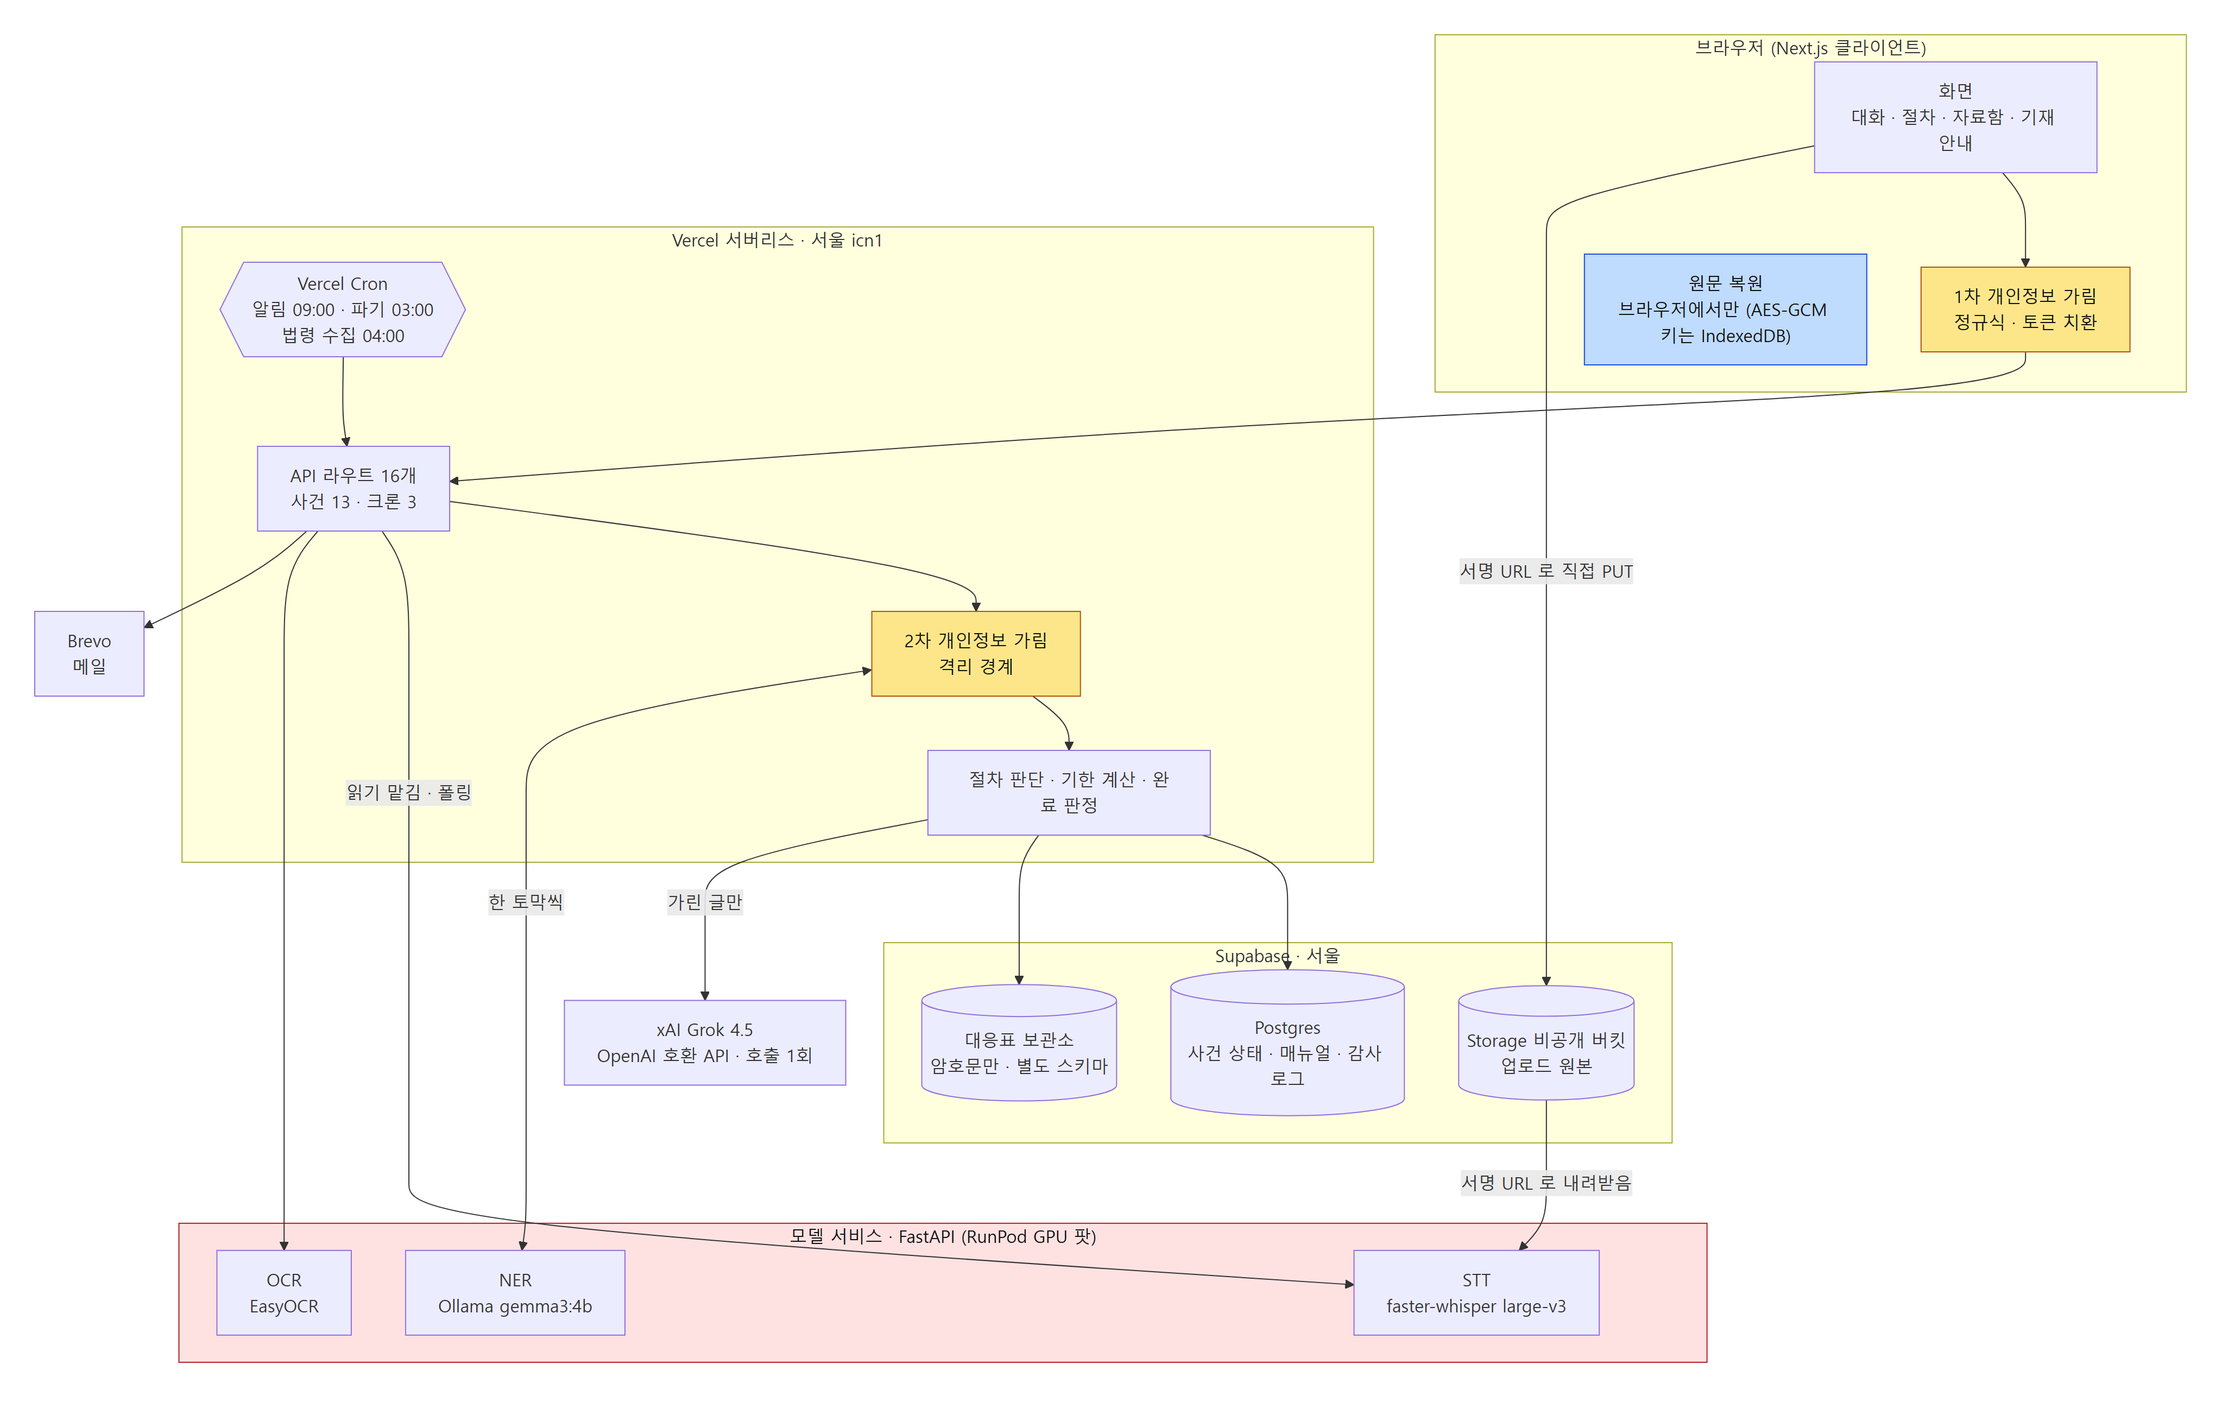
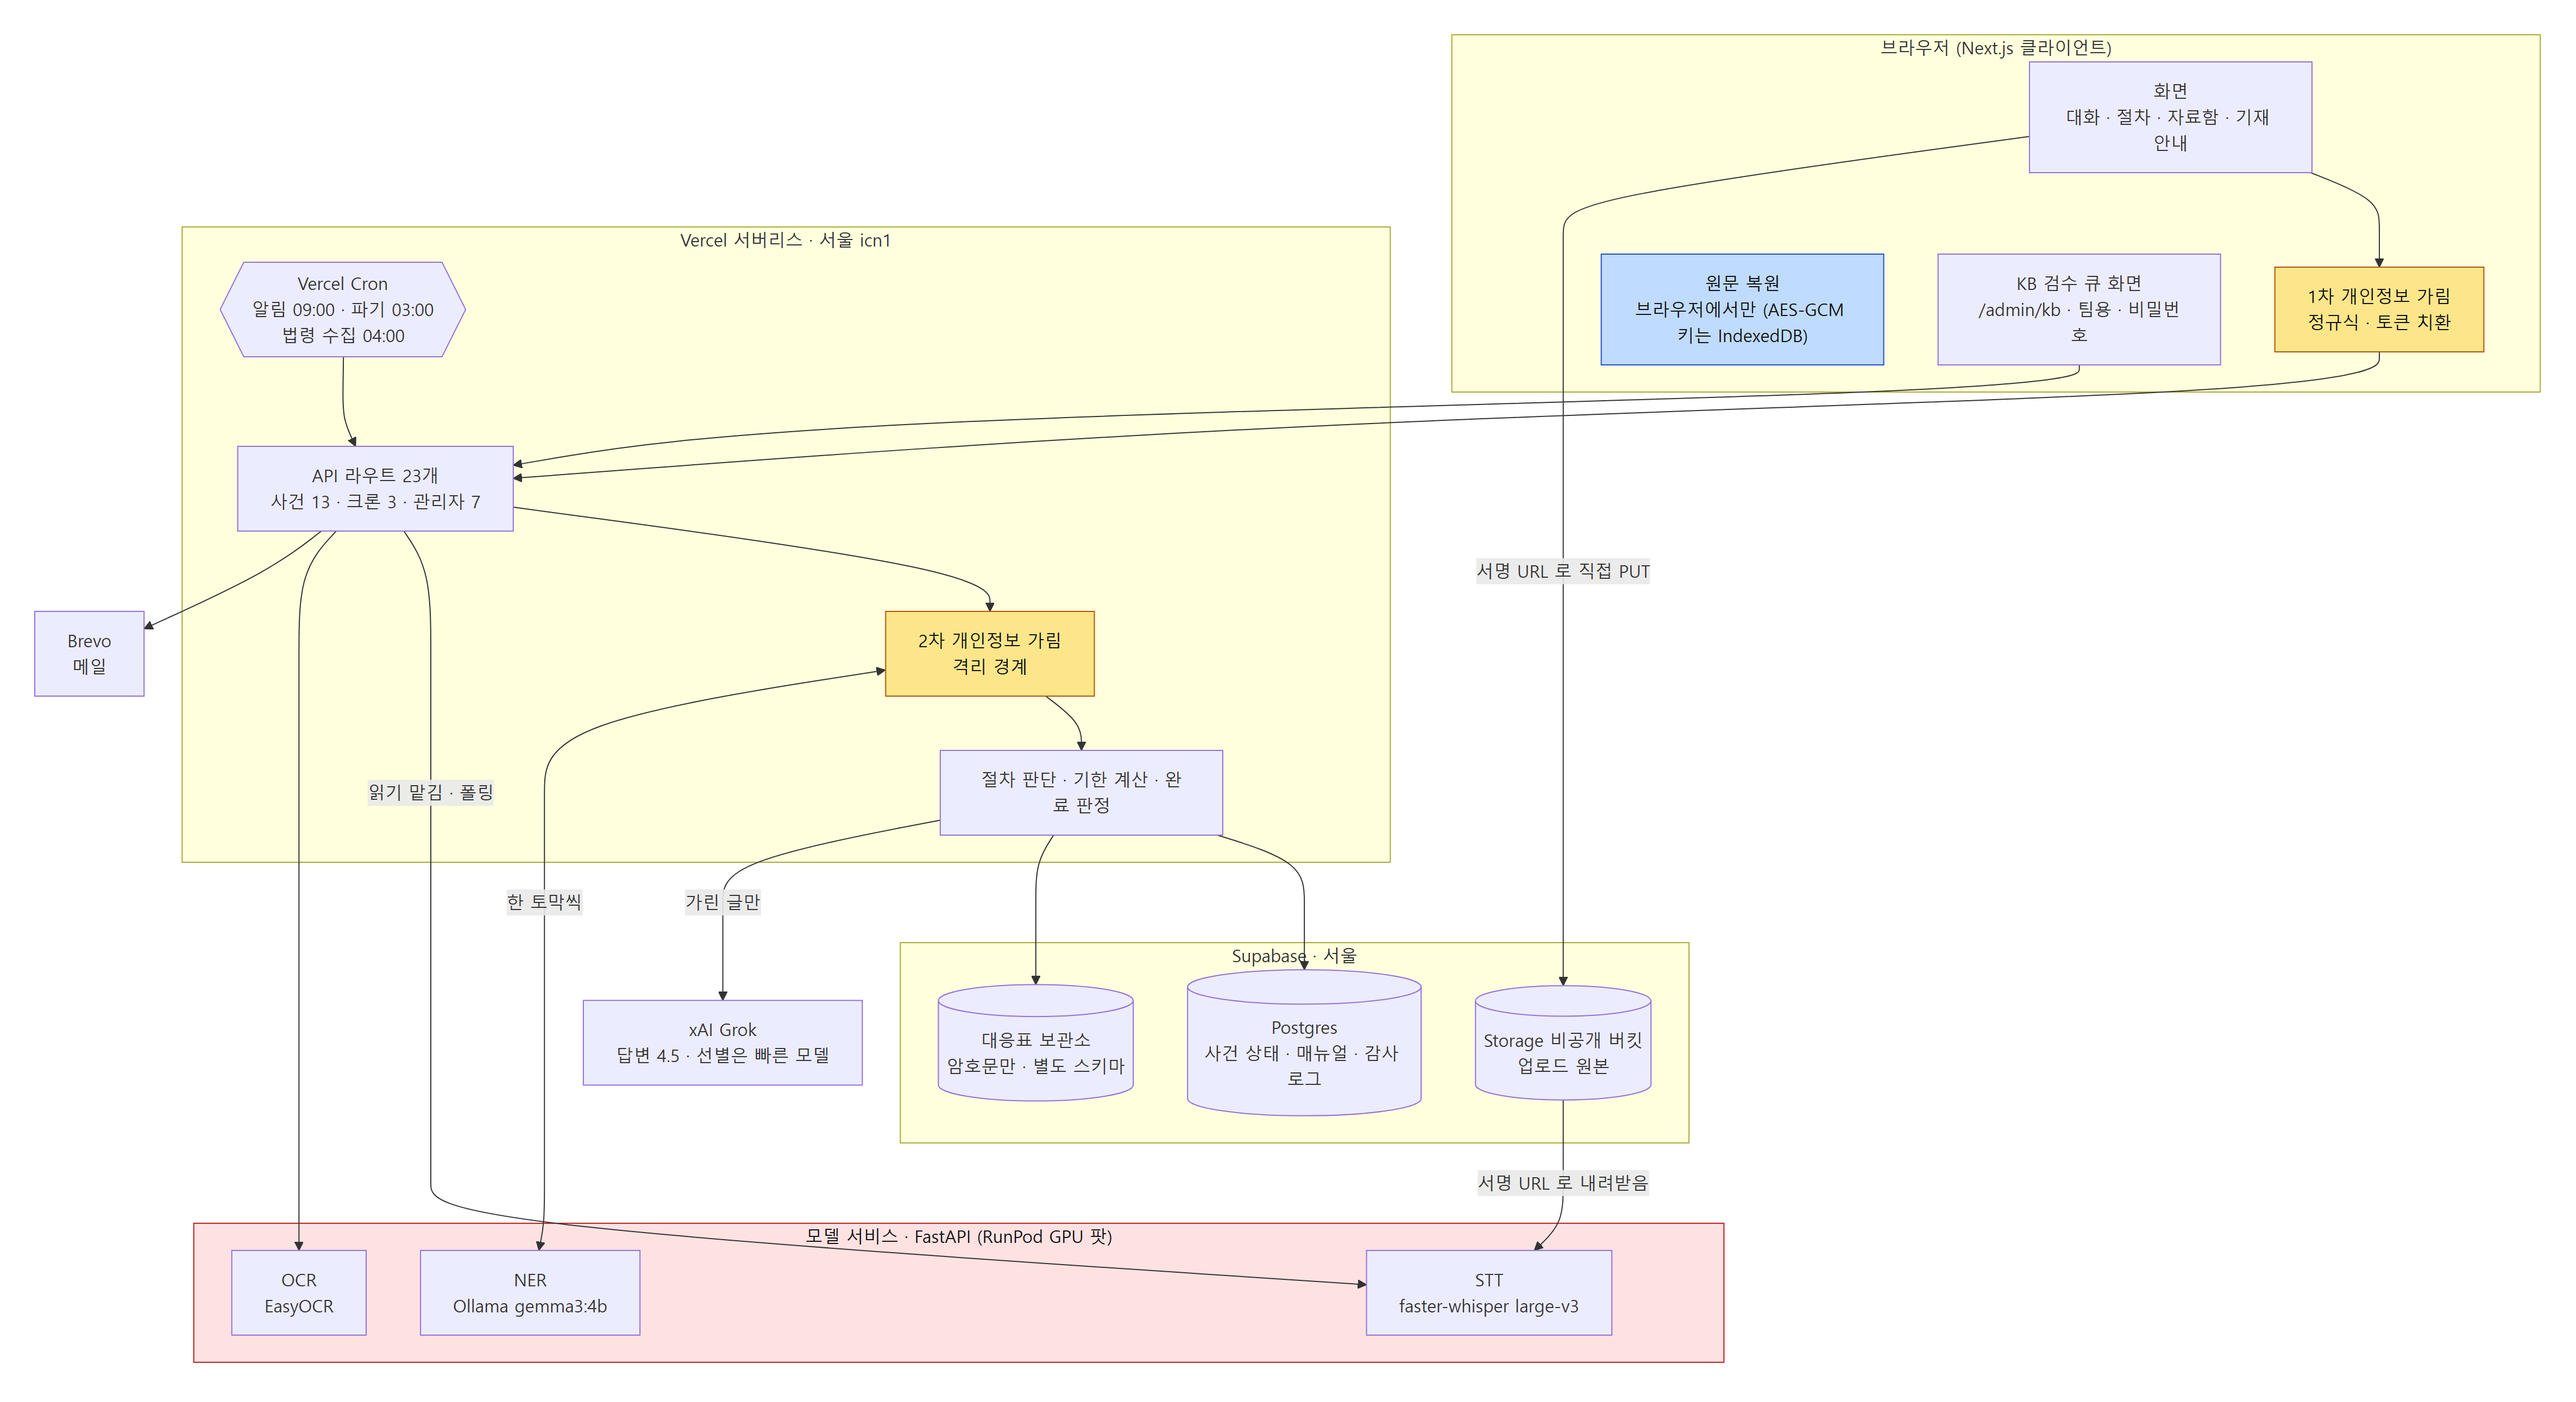
기획서 원고에 법령 자동 수집·검수 화면과 상담 자료 선별을 적고 v4 를 다시 굽는다 — 기능명세서 도표 3장 갱신 (ADR-088 · ADR-089 반영)
기획서 §5: 자료집 버전 교체가 「국가법령정보센터 조문 단위 자동 수집 → 검수 대기열 → 팀이 검수 화면에서 승인」으로
바뀐 것과, 상담이 질문에 따라 다른 유형 절차·기관 연락처·조문 원문을 고르되 고르는 것까지만 AI 가 하는 것을 한 줄씩.
v4 hwpx 는 원고에서 다시 구웠다.

기능명세서 도표: 그림1(라우트 23 · 검수 큐 화면 · 선별 모델) · 그림5(선별 모델 참가자 · 답변 예산 90초 · 응답 뒤 진술 추출) ·
그림7(검수 큐 화면 /admin/kb). 원본은 원고의 mermaid.

Claude-Session: https://claude.ai/code/session_01CESNFe8cm4eFTjayJuA84y

diff --git a/기획서-FinAlly.md b/기획서-FinAlly.md
@@ -109,13 +109,13 @@ FinAlly(핀앨리): Fin(금융)과 Ally(동행자)를 합쳐 지은 이름으로
 
 ■ 활용 데이터
 
-○ 공식 절차 자료집: 통신사기피해환급법과 시행령, 금융감독원과 각 기관의 공식 자료에서 절차 32건, 기관 연락처 51곳(신고 전화 49곳), 공공기관 5곳을 출처와 시행일을 붙여 구조화했습니다. 자료집에 버전을 붙여 관리해 제도가 바뀌면 버전 교체로 대응하고, 교체 전에 반드시 사람이 검수합니다. 근거를 확인하지 못한 절차는 싣지 않습니다.
+○ 공식 절차 자료집: 통신사기피해환급법과 시행령, 금융감독원과 각 기관의 공식 자료에서 절차 32건, 기관 연락처 51곳(신고 전화 49곳), 공공기관 5곳을 출처와 시행일을 붙여 구조화했습니다. 자료집에 버전을 붙여 관리합니다. 법령이 바뀌면 국가법령정보센터에서 조문 단위로 자동 수집해 검수 대기열에 올리고, 팀이 검수 화면에서 승인한 뒤에만 새 버전으로 교체합니다. 근거를 확인하지 못한 절차는 싣지 않습니다.
 
 ○ 개인정보 가림 성능 평가 자료(자체 제작): 가상의 피해 진술 40건과 가상의 증거 화면으로 평가 기준을 만들었습니다. 실제 피해자 데이터는 일절 쓰지 않았고, 계좌나 이름 등은 전부 실존하지 않는 값입니다.
 
 ■ 생성형 AI의 네 가지 역할과 그 경계
 
-① 상담 대화: 생성형 AI(xAI Grok)가 공식 절차 자료에서 고른 내용을 사용자 상황에 맞게 풀어 설명합니다. 근거 없는 문장은 검증 단계에서 걸러지고, 업로드된 문서 속 문장은 명령이 아니라 자료로만 다뤄 문서를 통한 조작 시도를 차단합니다.
+① 상담 대화: 생성형 AI(xAI Grok)가 공식 절차 자료에서 고른 내용을 사용자 상황에 맞게 풀어 설명합니다. 질문에 따라 다른 유형의 절차, 기관 연락처, 법령 조문 원문도 함께 참고하되, 어느 자료를 볼지 고르는 것까지만 AI가 하고 본문은 자료집에서 그대로 꺼냅니다. 근거 없는 문장은 검증 단계에서 걸러지고, 업로드된 문서 속 문장은 명령이 아니라 자료로만 다뤄 문서를 통한 조작 시도를 차단합니다.
 
 ② 사건 정보 읽어내기: 진술과 증거에서 피해 날짜, 금액, 돈이 나간 경로를 AI가 읽어내 계획을 정밀하게 만들고, 사용자에게 묻는 질문 수를 줄입니다.
 
